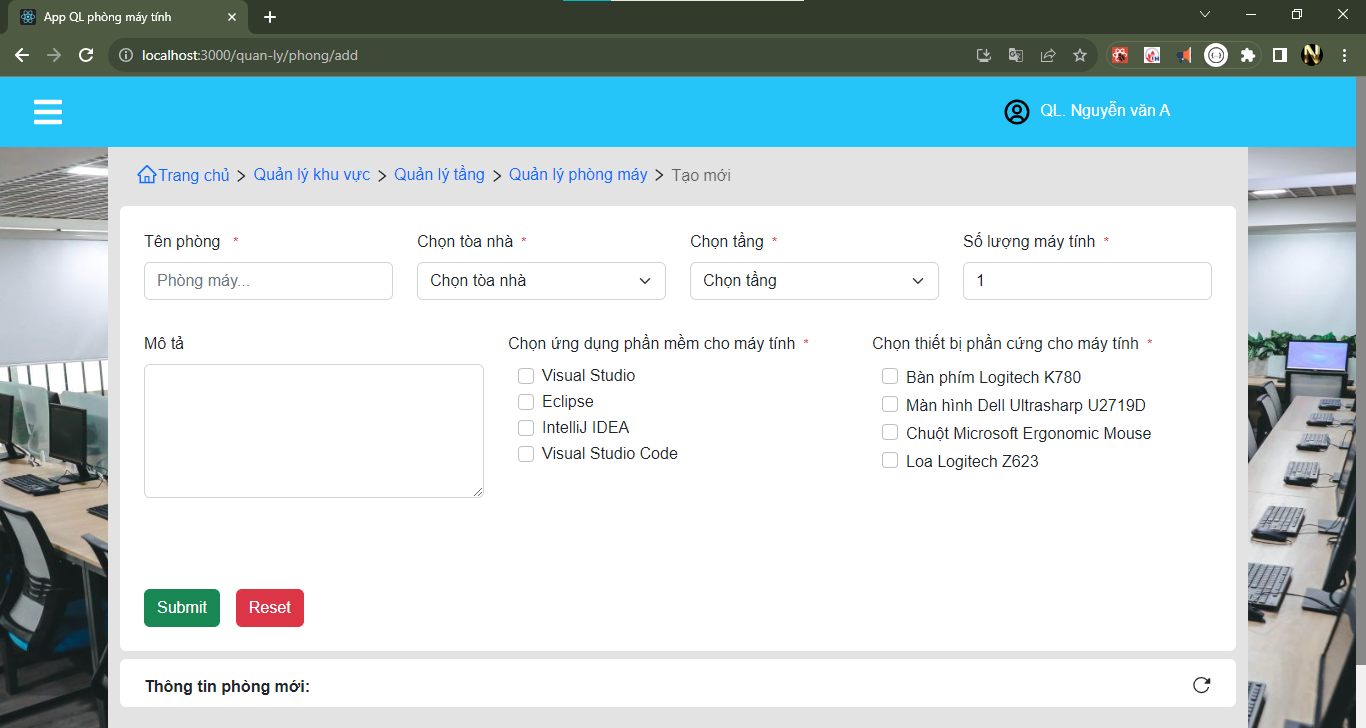
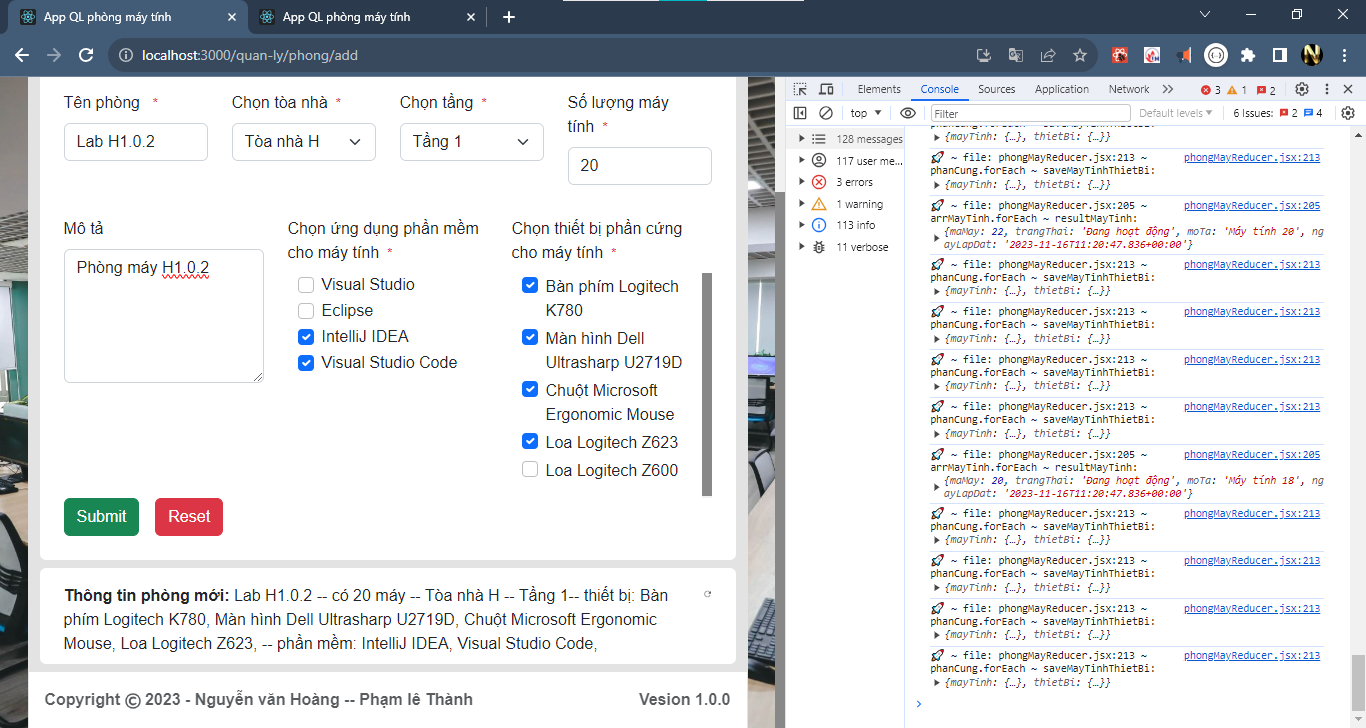
QL Phong finish addApi Phong may

diff --git a/src/redux/reducers/phongMayReducer.jsx b/src/redux/reducers/phongMayReducer.jsx
@@ -67,9 +67,7 @@ const phongMayReducer = createSlice({
         valSelect
       );
     },
-    insertPhongMayAction: (state, action) => {
-
-    },
+    insertPhongMayAction: (state, action) => {},
   },
 });
 // exp nay de sử dụng theo cách 2
@@ -150,51 +148,88 @@ const dataSearch = (arrData, valSearch, valSelectTN, valSelectTG) => {
 // CAll APi++++++++++++++++++++++++++++++++++++++
 
 export const insertPhongMayApi = (phongMay) => {
-  let {tenPhong, soLuongMay, phanMem, phanCung, objToaNha, objTang, mota } = phongMay
-  
-  let arrMayTinh = []
-  let day = new Date();
+  let { tenPhong, soLuongMay, phanMem, phanCung, objToaNha, objTang, mota } =
+    phongMay;
 
-  for (let i = 0; i < soLuongMay; i++) {
-    let x = i+1;
-    let mayTinh = {
-      moTa:`Máy tính ${x<10?'0'+x:x}`,
-      ngayLapDat: day,
-      thietBis:phanCung
-    };
-    arrMayTinh.push(mayTinh)
-    
-  }
+  let arrPhanMem = [...phanMem];
 
-
-  let phanMems = [...phanMem]
-  let objPhong = {
+  // luu phong may
+  let savePhong = {
     tenPhong,
-    soMay:soLuongMay,
-    moTa:mota,
-    tang:objTang,
-    mayTinhs:arrMayTinh
+    soMay: soLuongMay,
+    moTa: mota,
+    tang: objTang,
+    trangThai: "Trống",
   };
-  console.log("🚀 ~ file: phongMayReducer.jsx:177 ~ insertPhongMayApi ~ objPhong:", objPhong) 
-  console.log("🚀 ~ file: phongMayReducer.jsx:177 ~ insertPhongMayApi ~ objPhong:", phanMems)
-  return async(dispatch) => {
+  //
+  //Luu phong máy vs Phanmem
+
+  return async (dispatch) => {
     try {
-      
-      let result = await http.post(`/LuuPhongMay/`,objPhong);
+      // luu phong may
+      let result = await http.post(`/LuuPhongMay/`, savePhong);
+      let { maPhong } = result.data;
+      console.log("🚀 ~ file: phongMayReducer.jsx:172 ~ return ~  result.data:",  result.data)
+      // Luu phong máy vs Phanmem
 
-      console.log("🚀 ~ file: phongMayReducer.jsx:185 ~ returnasync ~ result:", result)
+      arrPhanMem.forEach(async (item) => {
+        let savePhongMay_PhanMem = {
+          phongMay: result.data,
+          phanMem: item,
+          status: true,
+        };
+        console.log("🚀 ~ file: phongMayReducer.jsx:181 ~ arrPhanMem.forEach ~ savePhongMay_PhanMem:", savePhongMay_PhanMem)
+        await http.post("/LuuPhongMayPhanMem", savePhongMay_PhanMem);
+      });
 
+      // luu mayIinh
+
+      let arrMayTinh = [];
+      let day = new Date();
+
+      for (let i = 0; i < soLuongMay; i++) {
+        let x = i + 1;
+        let mayTinh = {
+          moTa: `Máy tính ${x < 10 ? "0" + x : x}`,
+          ngayLapDat: day,
+          trangThai: "Đang hoạt động",
+          phongMay: {
+            maPhong,
+          },
+        };
+        arrMayTinh.push(mayTinh);
+      }
+
+      arrMayTinh.forEach(async (item) => {
+        let resultMayTinh = await http.post("/LuuMayTinh", item);
+        console.log("🚀 ~ file: phongMayReducer.jsx:205 ~ arrMayTinh.forEach ~ resultMayTinh:", resultMayTinh.data)
+
+        // luu maytinh vaf thiet bi
+        phanCung.forEach(async (item) => {
+          let saveMayTinhThietBi = {
+            mayTinh: resultMayTinh.data,
+            thietBi: item,
+          };
+          console.log("🚀 ~ file: phongMayReducer.jsx:213 ~ phanCung.forEach ~ saveMayTinhThietBi:", saveMayTinhThietBi)
+
+          await http.post("/LuuMayTinhThietBi", saveMayTinhThietBi);
+        });
+      });
+
+      alert('Good luck')
       // dispatch(insertPhongMayAction())
     } catch (error) {
-      console.log("🚀 ~ file: phongMayReducer.jsx:157 ~ returnasync ~ error:", error)
-      
+      console.log(
+        "🚀 ~ file: phongMayReducer.jsx:157 ~ returnasync ~ error:",
+        error
+      );
     }
-  }
-}
+  };
+};
 
 /**
- * call All 
- * @param {*} dispatch 
+ * call All
+ * @param {*} dispatch
  */
 export const getAllPhongMayApi = async (dispatch) => {
   try {

diff --git a/src/pages/PageQuanLy/PageQLPhongMay.jsx b/src/pages/PageQuanLy/PageQLPhongMay.jsx
@@ -24,7 +24,7 @@ function PageQLPhongMay() {
   //
   const dispatch = useDispatch();
   //
-  let { arrPhongMay, arrPhongMaySearch, valueSelectToaNha,arrTangbyToaNha } = useSelector(
+  let { arrPhongMay, arrPhongMaySearch, valueSelectToaNha, valueSelectTang,arrTangbyToaNha } = useSelector(
     (state) => state.phongMayReducer
   );
   let { arrTang } = useSelector((state) => state.tangReducer);

diff --git a/src/components/layout/Add/FormAddPhong.jsx b/src/components/layout/Add/FormAddPhong.jsx
@@ -164,7 +164,7 @@ export default function FormAddPhong() {
       //true - di tiep
       // alert(`dang cập nhật`)
       // console.log('Chua co api');
-      // dispatch(insertPhongMayApi(itemPhongRef.current))
+      dispatch(insertPhongMayApi(itemPhongRef.current))
     }
   };
   // check data

diff --git a/README.md b/README.md
@@ -104,6 +104,7 @@
     - PageQLNhanVien: xoa NV có lịch trực bị lỗi 500
     - PageLichTruc: xóa 1 lich truc cung bi lỗi 500
     - FormAddPhongMay: them moi  tung obj moi - add mayTinh - add phong - add phan mem vs Phong
+    -- Add phong (tao phong - phanMem_Phong -mayTinh(co maPhong) - mayTinh_ThietBI)
 
 
 ## Tài liệu
